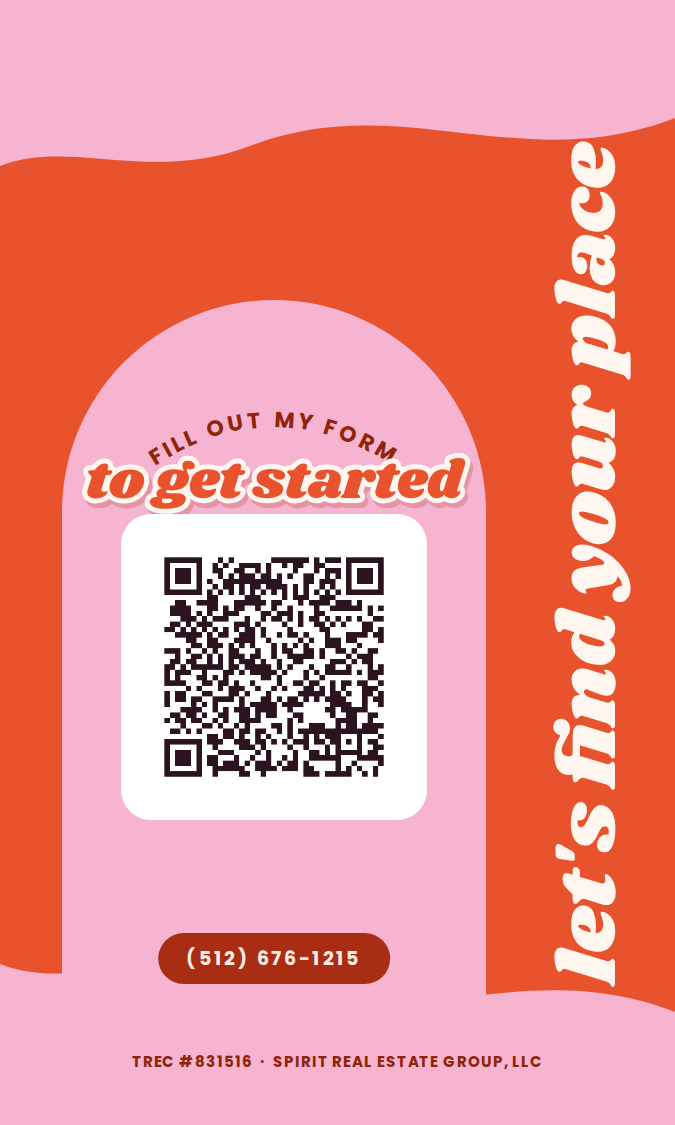
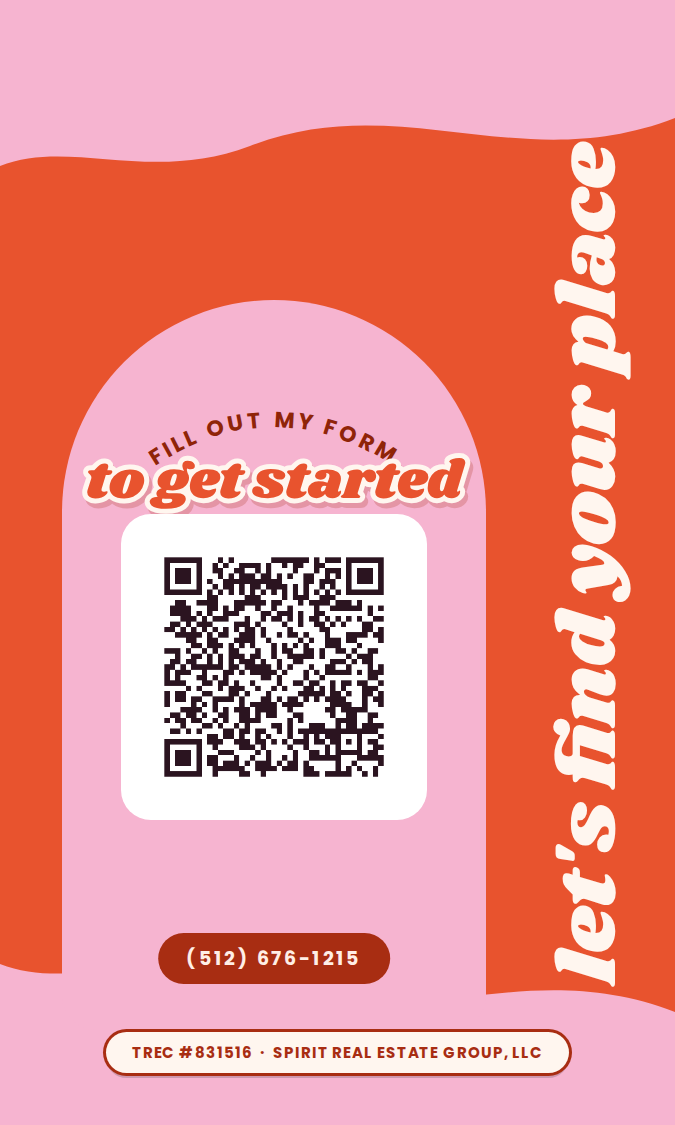
Put a solid block behind the small words
The last pass plated the QR captions but left the role line and the licence
line bare, and those are the ones sitting on the checkerboards. "TEXAS
APARTMENT LOCATOR" was light text laid straight on the pattern: over a dark
square it read, over a cream one it vanished, so half of every word
disappeared. No colour fixes that — the ground alternates underneath, so any
single ink loses against one of the two squares. Contrast was never the
variable; the ground was.

So the ground gets replaced. Each role line now sits on a filled plate in the
card's own darkest accent, with cream type reversed out of it and the same
solid drop the wordmarks carry. Because the plate is opaque, the pattern stops
mattering: 6.45:1 at worst, 10.73:1 at best, and constant across the line
rather than swinging square to square.

Plates are cut to fit. SVG text has no width until it is laid out, so
plate.js measures every line in the same Chromium that renders the exports and
plate.py injects a rect sized to what it measured — nothing here estimates
text metrics. The warped backs carry the role line on the pattern too and got
the same treatment; Exact Green Checks' back sets it on a flat cream band
where it already reads, so it keeps its air.

The licence pill was filled in each card's own cream, which is why it looked
like a broken rectangle — its edge showed over the coloured checks and
dissolved over the cream ones. It gets a 3px keyline in the accent so it holds
[…]

Changed region(s): [[0.1556, 0.9022, 0.84, 0.9644]]

diff --git a/business_cards/cards_v2/13_exact_gingham_square/front.html b/business_cards/cards_v2/13_exact_gingham_square/front.html
@@ -63,20 +63,22 @@
         </g>
       </g>
 
+      <rect x="178.0" y="525.0" width="462.0" height="57.0" rx="14" fill="#5e1610" opacity="0.85"/>
+      <rect x="178.0" y="520.0" width="462.0" height="57.0" rx="14" fill="#8a231a"/>
       <text x="412" y="556" text-anchor="middle"
             font-family="Poppins" font-weight="600" font-size="21" letter-spacing="6"
-            stroke="#f8f3ea" stroke-width="6" stroke-linejoin="round" paint-order="stroke"
-            fill="#b8332a">Texas Apartment Locator</text>
+            fill="#fbf6ee">Texas Apartment Locator</text>
 
       <g fill="#b8332a">
         <path transform="translate(126,150) scale(1.3)" d="M20 1 C21.6 12 28 18.4 39 20 C28 21.6 21.6 28 20 39 C18.4 28 12 21.6 1 20 C12 18.4 18.4 12 20 1 Z"/>
         <path transform="translate(634,138) scale(1.7)" d="M20 1 C21.6 12 28 18.4 39 20 C28 21.6 21.6 28 20 39 C18.4 28 12 21.6 1 20 C12 18.4 18.4 12 20 1 Z"/>
       </g>
 
+      <rect x="184.2" y="717.0" width="454.7" height="47.0" rx="23.5" fill="#5e1610" opacity="0.85"/>
+      <rect x="184.2" y="713.0" width="454.7" height="47.0" rx="23.5" fill="#8a231a"/>
       <text x="412" y="742" text-anchor="middle"
             font-family="Poppins" font-weight="700" font-size="15" letter-spacing="0.9"
-            stroke="#f8f3ea" stroke-width="4" stroke-linejoin="round" paint-order="stroke"
-            fill="#8a231a">TREC #831516 &#183; SPIRIT REAL ESTATE GROUP, LLC</text>
+            fill="#fbf6ee">TREC #831516 &#183; SPIRIT REAL ESTATE GROUP, LLC</text>
     </svg>
   </div>
 </body>

diff --git a/business_cards/cards_v2/6_sage_checkers/front.html b/business_cards/cards_v2/6_sage_checkers/front.html
@@ -61,11 +61,12 @@
     border-radius: 999px;
     padding: 9px 26px;
     font-family: 'Poppins', sans-serif;
-    font-weight: 600;
-    font-size: 14.5px;
-    letter-spacing: 1.4px;
-    color: #3c5537;
+    font-weight: 700;
+    font-size: 15px;
+    letter-spacing: 0.9px;
+    color: #33492e;
     white-space: nowrap;
+    box-shadow: 0 0 0 3px #33492e, 0 5px 0 rgba(0,0,0,0.16);
   }
 </style>
 </head>
@@ -111,9 +112,10 @@
       </svg>
       <div class="role">
         <svg width="1050" height="46" viewBox="0 0 1050 46" xmlns="http://www.w3.org/2000/svg">
-          <text x="525" y="32" text-anchor="middle"
-                font-family="Poppins" font-weight="700" font-size="24" letter-spacing="7"
-                stroke="#4d6b46" stroke-width="7" stroke-linejoin="round" paint-order="stroke" fill="#f2ebd9">TEXAS APARTMENT LOCATOR</text>
+          <rect x="238.5" y="-2.0" width="566.0" height="61.0" rx="14" fill="#22321f" opacity="0.85"/>
+      <rect x="238.5" y="-7.0" width="566.0" height="61.0" rx="14" fill="#33492e"/>
+      <text x="525" y="32" text-anchor="middle"
+                font-family="Poppins" font-weight="700" font-size="24" letter-spacing="7" fill="#f2ebd9">TEXAS APARTMENT LOCATOR</text>
         </svg>
       </div>
     </div>

diff --git a/business_cards/cards_v2/8_warped_checkers/front.html b/business_cards/cards_v2/8_warped_checkers/front.html
@@ -43,11 +43,12 @@
     border-radius: 999px;
     padding: 9px 26px;
     font-family: 'Poppins', sans-serif;
-    font-weight: 600;
-    font-size: 14.5px;
-    letter-spacing: 1.4px;
-    color: #4e6b36;
+    font-weight: 700;
+    font-size: 15px;
+    letter-spacing: 0.9px;
+    color: #2b3d1e;
     white-space: nowrap;
+    box-shadow: 0 0 0 3px #2b3d1e, 0 5px 0 rgba(0,0,0,0.16);
   }
 </style>
 </head>
@@ -96,9 +97,10 @@
             <text x="525" y="256">reddehase</text>
         </g>
       </g>
-        <text x="525" y="330" text-anchor="middle"
-              font-family="Poppins" font-weight="700" font-size="25" letter-spacing="7.5"
-              stroke="#3f5a2c" stroke-width="7" stroke-linejoin="round" paint-order="stroke" fill="#f7e6c9">TEXAS APARTMENT LOCATOR</text>
+        <rect x="223.2" y="295.0" width="596.0" height="63.0" rx="14" fill="#1b2712" opacity="0.85"/>
+      <rect x="223.2" y="290.0" width="596.0" height="63.0" rx="14" fill="#2b3d1e"/>
+      <text x="525" y="330" text-anchor="middle"
+              font-family="Poppins" font-weight="700" font-size="25" letter-spacing="7.5" fill="#f7e6c9">TEXAS APARTMENT LOCATOR</text>
       </svg>
     </div>
 

diff --git a/business_cards/cards_v2/5_sweet_suite/front.html b/business_cards/cards_v2/5_sweet_suite/front.html
@@ -46,11 +46,12 @@
     border-radius: 999px;
     padding: 9px 26px;
     font-family: 'Poppins', sans-serif;
-    font-weight: 600;
-    font-size: 14.5px;
-    letter-spacing: 1.4px;
-    color: #a3164e;
+    font-weight: 700;
+    font-size: 15px;
+    letter-spacing: 0.9px;
+    color: #6b2140;
     white-space: nowrap;
+    box-shadow: 0 0 0 3px #6b2140, 0 5px 0 rgba(0,0,0,0.16);
   }
 </style>
 </head>
@@ -198,9 +199,10 @@
       </svg>
       <div class="role">
         <svg width="1050" height="46" viewBox="0 0 1050 46" xmlns="http://www.w3.org/2000/svg">
-          <text x="525" y="32" text-anchor="middle"
+          <rect x="238.5" y="-2.0" width="566.0" height="61.0" rx="14" fill="#421327" opacity="0.85"/>
+      <rect x="238.5" y="-7.0" width="566.0" height="61.0" rx="14" fill="#6b2140"/>
+      <text x="525" y="32" text-anchor="middle"
                 font-family="Poppins" font-weight="700" font-size="24" letter-spacing="7"
-                stroke="#a3164e" stroke-width="7" stroke-linejoin="round" paint-order="stroke"
                 fill="#fff6ea">TEXAS APARTMENT LOCATOR</text>
         </svg>
       </div>

diff --git a/business_cards/cards_v2/1_cherry_checkers/front.html b/business_cards/cards_v2/1_cherry_checkers/front.html
@@ -49,11 +49,12 @@
     border-radius: 999px;
     padding: 9px 26px;
     font-family: 'Poppins', sans-serif;
-    font-weight: 600;
-    font-size: 14.5px;
-    letter-spacing: 1.4px;
-    color: #a80f27;
+    font-weight: 700;
+    font-size: 15px;
+    letter-spacing: 0.9px;
+    color: #a30f28;
     white-space: nowrap;
+    box-shadow: 0 0 0 3px #a30f28, 0 5px 0 rgba(0,0,0,0.16);
   }
 </style>
 </head>
@@ -98,9 +99,10 @@
       </svg>
       <div class="role">
         <svg width="1050" height="46" viewBox="0 0 1050 46" xmlns="http://www.w3.org/2000/svg">
-          <text x="525" y="32" text-anchor="middle"
+          <rect x="238.5" y="-2.0" width="566.0" height="61.0" rx="14" fill="#6e0819" opacity="0.85"/>
+      <rect x="238.5" y="-7.0" width="566.0" height="61.0" rx="14" fill="#a30f28"/>
+      <text x="525" y="32" text-anchor="middle"
                 font-family="Poppins" font-weight="700" font-size="24" letter-spacing="7"
-                stroke="#a80f27" stroke-width="7" stroke-linejoin="round" paint-order="stroke"
                 fill="#fff8ee">TEXAS APARTMENT LOCATOR</text>
         </svg>
       </div>

diff --git a/business_cards/cards_v2/4_y2k_sticker_pop/front.html b/business_cards/cards_v2/4_y2k_sticker_pop/front.html
@@ -48,11 +48,12 @@
     border-radius: 999px;
     padding: 9px 26px;
     font-family: 'Poppins', sans-serif;
-    font-weight: 600;
-    font-size: 14.5px;
-    letter-spacing: 1.4px;
-    color: #7a0b24;
+    font-weight: 700;
+    font-size: 15px;
+    letter-spacing: 0.9px;
+    color: #7d0f2b;
     white-space: nowrap;
+    box-shadow: 0 0 0 3px #7d0f2b, 0 5px 0 rgba(0,0,0,0.16);
   }
 </style>
 </head>
@@ -97,9 +98,10 @@
       </svg>
       <div class="role">
         <svg width="1050" height="46" viewBox="0 0 1050 46" xmlns="http://www.w3.org/2000/svg">
-          <text x="525" y="32" text-anchor="middle"
+          <rect x="238.5" y="-2.0" width="566.0" height="61.0" rx="14" fill="#55071c" opacity="0.85"/>
+      <rect x="238.5" y="-7.0" width="566.0" height="61.0" rx="14" fill="#7d0f2b"/>
+      <text x="525" y="32" text-anchor="middle"
                 font-family="Poppins" font-weight="700" font-size="24" letter-spacing="7"
-                stroke="#7a0b24" stroke-width="7" stroke-linejoin="round" paint-order="stroke"
                 fill="#fff6f0">TEXAS APARTMENT LOCATOR</text>
         </svg>
       </div>

diff --git a/business_cards/cards_v2/2_marshmallow_pink/front.html b/business_cards/cards_v2/2_marshmallow_pink/front.html
@@ -46,11 +46,12 @@
     border-radius: 999px;
     padding: 9px 26px;
     font-family: 'Poppins', sans-serif;
-    font-weight: 600;
-    font-size: 14.5px;
-    letter-spacing: 1.4px;
+    font-weight: 700;
+    font-size: 15px;
+    letter-spacing: 0.9px;
     color: #a3164e;
     white-space: nowrap;
+    box-shadow: 0 0 0 3px #a3164e, 0 5px 0 rgba(0,0,0,0.16);
   }
 </style>
 </head>
@@ -95,9 +96,10 @@
       </svg>
       <div class="role">
         <svg width="1050" height="46" viewBox="0 0 1050 46" xmlns="http://www.w3.org/2000/svg">
-          <text x="525" y="32" text-anchor="middle"
+          <rect x="238.5" y="-2.0" width="566.0" height="61.0" rx="14" fill="#6d0e34" opacity="0.85"/>
+      <rect x="238.5" y="-7.0" width="566.0" height="61.0" rx="14" fill="#a3164e"/>
+      <text x="525" y="32" text-anchor="middle"
                 font-family="Poppins" font-weight="700" font-size="24" letter-spacing="7"
-                stroke="#a3164e" stroke-width="7" stroke-linejoin="round" paint-order="stroke"
                 fill="#fff1f8">TEXAS APARTMENT LOCATOR</text>
         </svg>
       </div>

diff --git a/business_cards/cards_v2/3_terracotta_cobalt/front.html b/business_cards/cards_v2/3_terracotta_cobalt/front.html
@@ -48,11 +48,12 @@
     border-radius: 999px;
     padding: 9px 26px;
     font-family: 'Poppins', sans-serif;
-    font-weight: 600;
-    font-size: 14.5px;
-    letter-spacing: 1.4px;
+    font-weight: 700;
+    font-size: 15px;
+    letter-spacing: 0.9px;
     color: #1b2a6b;
     white-space: nowrap;
+    box-shadow: 0 0 0 3px #1b2a6b, 0 5px 0 rgba(0,0,0,0.16);
   }
 </style>
 </head>
@@ -97,9 +98,10 @@
       </svg>
       <div class="role">
         <svg width="1050" height="46" viewBox="0 0 1050 46" xmlns="http://www.w3.org/2000/svg">
-          <text x="525" y="32" text-anchor="middle"
+          <rect x="238.5" y="-2.0" width="566.0" height="61.0" rx="14" fill="#0d1730" opacity="0.85"/>
+      <rect x="238.5" y="-7.0" width="566.0" height="61.0" rx="14" fill="#1b2a6b"/>
+      <text x="525" y="32" text-anchor="middle"
                 font-family="Poppins" font-weight="700" font-size="24" letter-spacing="7"
-                stroke="#1b2a6b" stroke-width="7" stroke-linejoin="round" paint-order="stroke"
                 fill="#f3e6d2">TEXAS APARTMENT LOCATOR</text>
         </svg>
       </div>

diff --git a/business_cards/cards_v2/7_groovy_waves/front.html b/business_cards/cards_v2/7_groovy_waves/front.html
@@ -51,7 +51,13 @@
     font-weight: 700;
     font-size: 15px;
     letter-spacing: 0.9px;
-    color: #2b0c02;
+    color: #a82d12;
+    background: #fff6ef;
+    border-radius: 999px;
+    padding: 9px 26px;
+    width: fit-content;
+    margin: 0 auto;
+    box-shadow: 0 0 0 3px #a82d12, 0 5px 0 rgba(0,0,0,0.16);
   }
 </style>
 </head>
@@ -72,8 +78,10 @@
           <text x="562" y="360" font-size="96">reddehase</text>
         </g>
       </g>
+      <rect x="264.0" y="418.0" width="588.0" height="61.0" rx="14" fill="#741e0b" opacity="0.85"/>
+      <rect x="264.0" y="413.0" width="588.0" height="61.0" rx="14" fill="#a82d12"/>
       <text x="562" y="452" text-anchor="middle"
-            font-family="Poppins" font-weight="700" font-size="24" letter-spacing="8" fill="#ffd9c8">TEXAS APARTMENT LOCATOR</text>
+            font-family="Poppins" font-weight="700" font-size="24" letter-spacing="8" fill="#fff6ef">TEXAS APARTMENT LOCATOR</text>
     </svg>
 
     <div class="handle">AUSTIN, TX &nbsp;·&nbsp; 100% FREE FOR RENTERS</div>

diff --git a/business_cards/cards_v2/10_exact_green_checks/front.html b/business_cards/cards_v2/10_exact_green_checks/front.html
@@ -37,11 +37,12 @@
     border-radius: 999px;
     padding: 9px 26px;
     font-family: 'Poppins', sans-serif;
-    font-weight: 600;
-    font-size: 14.5px;
-    letter-spacing: 1.4px;
-    color: #3c5537;
+    font-weight: 700;
+    font-size: 15px;
+    letter-spacing: 0.9px;
+    color: #33492e;
     white-space: nowrap;
+    box-shadow: 0 0 0 3px #33492e, 0 5px 0 rgba(0,0,0,0.16);
   }
 </style>
 </head>
@@ -74,9 +75,10 @@
         </g>
       </g>
 
+      <rect x="276.2" y="483.0" width="564.0" height="60.0" rx="14" fill="#22321f" opacity="0.85"/>
+      <rect x="276.2" y="478.0" width="564.0" height="60.0" rx="14" fill="#33492e"/>
       <text x="562" y="516" text-anchor="middle"
             font-family="Poppins" font-weight="700" font-size="23" letter-spacing="7.5"
-            stroke="#4d6b46" stroke-width="7" stroke-linejoin="round" paint-order="stroke"
             fill="#f2ebd9">TEXAS APARTMENT LOCATOR</text>
 
       <!-- cream sparkles, sitting on the dark squares like the pin -->

diff --git a/business_cards/cards_v2/9_pink_gingham/front.html b/business_cards/cards_v2/9_pink_gingham/front.html
@@ -50,9 +50,10 @@
     font-weight: 700;
     font-size: 15px;
     letter-spacing: 0.9px;
-    color: #b8332a;
+    color: #8a231a;
     white-space: nowrap;
     box-shadow: 0 0 0 3px #b8332a, 0 5px 0 rgba(184,51,42,0.30);
+    box-shadow: 0 0 0 3px #8a231a, 0 5px 0 rgba(0,0,0,0.16);
   }
 </style>
 </head>
@@ -89,10 +90,11 @@
         </g>
       </g>
 
+      <rect x="264.0" y="488.0" width="588.0" height="61.0" rx="14" fill="#5e1610" opacity="0.85"/>
+      <rect x="264.0" y="483.0" width="588.0" height="61.0" rx="14" fill="#8a231a"/>
       <text x="562" y="522" text-anchor="middle"
             font-family="Poppins" font-weight="700" font-size="24" letter-spacing="8"
-            stroke="#f8f3ea" stroke-width="6" stroke-linejoin="round" paint-order="stroke"
-            fill="#b8332a">TEXAS APARTMENT LOCATOR</text>
+            fill="#fbf6ee">TEXAS APARTMENT LOCATOR</text>
 
       <!-- little red stars, as on the reference -->
       <g fill="#b8332a">

diff --git a/business_cards/cards_v2/12_exact_warped_checks/front.html b/business_cards/cards_v2/12_exact_warped_checks/front.html
@@ -28,11 +28,12 @@
     border-radius: 999px;
     padding: 9px 26px;
     font-family: 'Poppins', sans-serif;
-    font-weight: 600;
-    font-size: 14.5px;
-    letter-spacing: 1.4px;
-    color: #3f5a2c;
+    font-weight: 700;
+    font-size: 15px;
+    letter-spacing: 0.9px;
+    color: #2b3d1e;
     white-space: nowrap;
+    box-shadow: 0 0 0 3px #2b3d1e, 0 5px 0 rgba(0,0,0,0.16);
   }
 </style>
 </head>
@@ -79,9 +80,10 @@
         </g>
       </g>
 
+      <rect x="269.8" y="486.0" width="577.0" height="61.0" rx="14" fill="#1b2712" opacity="0.85"/>
+      <rect x="269.8" y="481.0" width="577.0" height="61.0" rx="14" fill="#2b3d1e"/>
       <text x="562" y="520" text-anchor="middle"
             font-family="Poppins" font-weight="700" font-size="24" letter-spacing="7.5"
-            stroke="#3f5a2c" stroke-width="7" stroke-linejoin="round" paint-order="stroke"
             fill="#f7e6c9">TEXAS APARTMENT LOCATOR</text>
 
       <g fill="#7a9b52">
